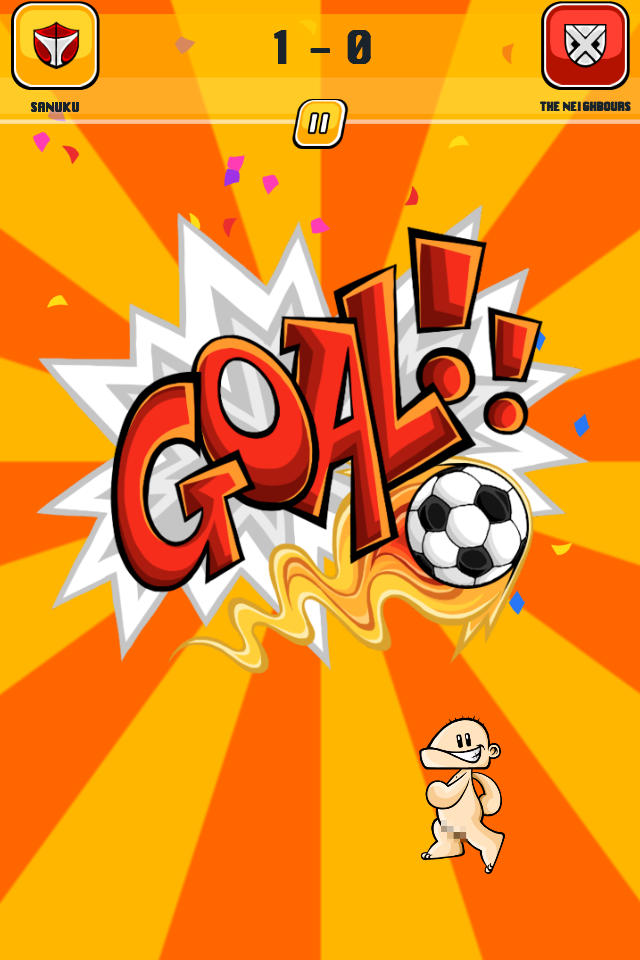
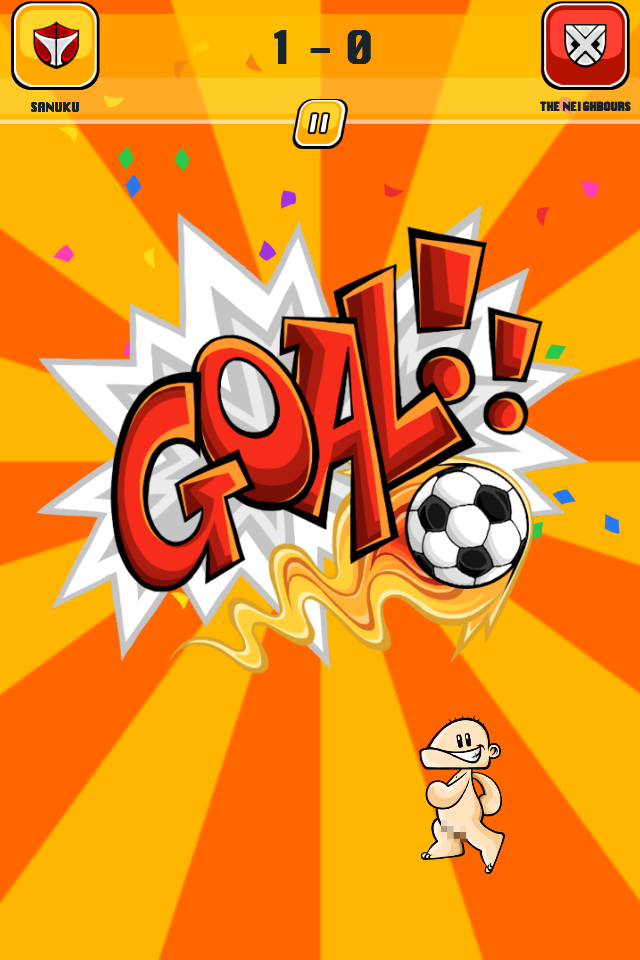
fix: add case 0 to IsAbilityTriggered for unconditional superpower execution

diff --git a/Assets/Scripts/DiceSoccerBootstrap.cs b/Assets/Scripts/DiceSoccerBootstrap.cs
@@ -3727,6 +3727,9 @@ namespace DiceSoccer
 
             switch (trigger)
             {
+                case 0: // Always active / Unconditional
+                    return true;
+
                 case 2: // PAIR: at least two dice show identical positive values
                     if (faces.Length < 2) return false;
                     for (int a = 0; a < faces.Length; a++)
